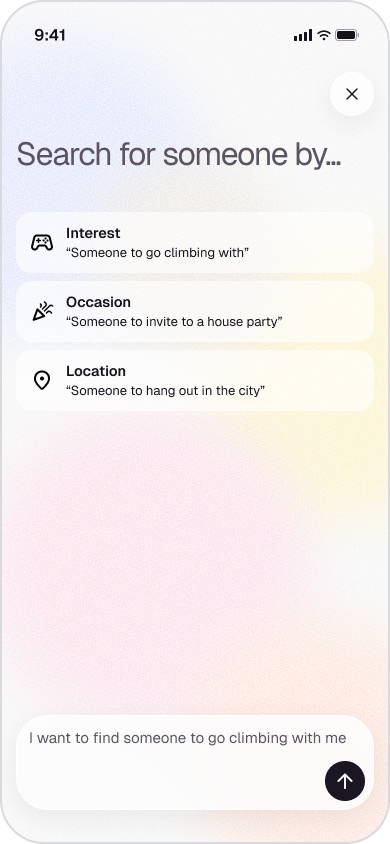
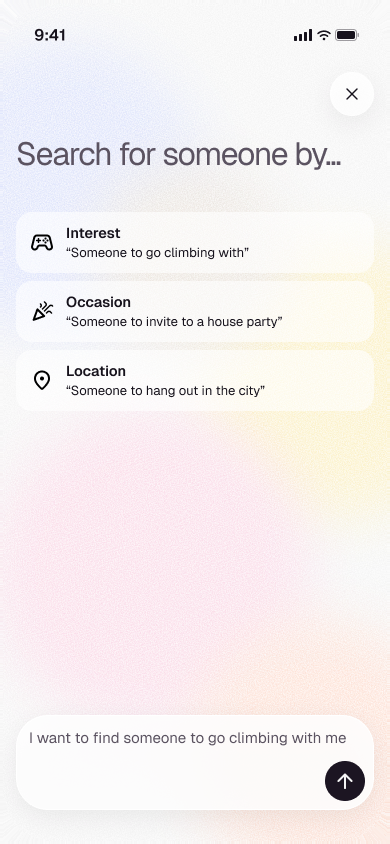
hook-150: find typed on the phone's own (light) screen, pulling back to the phone on the night background; shorter beat after the new profile

Changed region(s): [[0.0308, 0.0308, 1.0, 1.0], [0.0, 0.0308, 0.0308, 0.9858]]

diff --git a/hook-150/find.html b/hook-150/find.html
@@ -41,7 +41,8 @@
       0 46px 90px -16px rgba(8, 4, 14, 0.42), 0 14px 30px -10px rgba(8, 4, 14, 0.25); }
   #device i { position: absolute; inset: 4.7px; border-radius: 66px; background: #07060a; box-shadow: inset 0 0 0 0.6px rgba(255, 255, 255, 0.08); }
   .btn { position: absolute; width: 5px; border-radius: 2px; background: linear-gradient(90deg, #1d1e21, #5a5b60 55%, #2a2b2f); }
-  #screen { position: absolute; left: 0; top: 0; width: 393px; height: 852px; border-radius: 55px; overflow: hidden; }
+  #screen { position: absolute; left: 0; top: 0; width: 393px; height: 852px; border-radius: 55px; overflow: hidden;
+    background: linear-gradient(90deg, #f9f9f9, #fae8e0); }   /* the screen image's own corners are transparent: its colours behind them */
   #glare { position: absolute; inset: 0; border-radius: 55px;
     background: linear-gradient(118deg, rgba(255, 255, 255, 0.14) 0%, rgba(255, 255, 255, 0.04) 28%, rgba(255, 255, 255, 0) 42%); }
   #island { position: absolute; left: 133.5px; top: 11px; width: 126px; height: 37px; border-radius: 19px; background: #000; }
@@ -81,9 +82,6 @@
 <body>
 <div id="c">
   <img class="flat" src="assets/find/dark.png" alt="">
-  <div id="bigbox"><div id="bigsend"><img src="assets/find/send.svg" alt=""></div></div>
-  <div id="text"></div>
-  <p id="query"></p>
   <div id="cam">
     <div class="btn" style="left:-19.2px;top:123.5px;height:27.3px"></div>
     <div class="btn" style="left:-19.2px;top:183.2px;height:56.2px"></div>
@@ -102,6 +100,9 @@
       <div id="glare"></div>
     </div>
   </div>
+  <div id="bigbox"><div id="bigsend"><img src="assets/find/send.svg" alt=""></div></div>
+  <div id="text"></div>
+  <p id="query"></p>
   <svg id="leader" width="1920" height="1080"><line id="lline" stroke="#c6f04a" stroke-width="3" stroke-linecap="round"/>
     <circle id="ldot" r="8" fill="#c6f04a" stroke="rgba(22,18,28,0.55)" stroke-width="2"/></svg>
   <div id="callout"><b>WHY JORDAN</b><p>Climbs Tuesdays and wants a climbing buddy.</p></div>
@@ -123,8 +124,8 @@ const towards = (a, b, x) => a * (b / a) ** x;
 //    me", the line staying centered (452:10657)
 // 3. The camera pulls back: the box shows whole, the query settles into it, the send button comes in (452:10683)
 // 4. It pulls back again to the phone, "Search for someone by..." around the box (452:10693)
-//    The phone's screen grows out from around the search bar (no see-through phone), and the background turns to the
-//    main film's night background, as in its last scene
+//    It was the phone's screen all along (the light background); pulling back shows the phone on the main film's night
+//    background, as in its last scene
 // 5. As in the main film: a tap on send, the recorded results come in (the query moves up, "Reading your notes...",
 //    Jordan Lee and Zara Ahmed), and the "Why Jordan" note points at Jordan's card
 // 6. The note slides away, the phone drops away fast, and the night background is left for the main film's last scene
@@ -154,15 +155,20 @@ const LINES = [{
 const { lines, measure, paint } = makeLines(document.getElementById('text'), LINES, { shadow: false });
 
 // ---- Geometry ----
-// The box in the Figma frames (px in the frame): filling it at 200px, a band at 100px, whole at 4.55x
-const BOX1 = { cx: 886.5, top: -68, w: 2327, h: 1173, r: 208, b: 6.5 };
-const BOX2 = { cx: 959.5, top: 392, w: 2327, h: 609, r: 208, b: 6.5 };
-const BOX3 = { cx: 146 + 1628.9 / 2, top: 446, w: 1628.9, h: 95.5 * 4.55, r: 32 * 4.55, b: 4.55 };
+// It all happens on the phone's screen: the camera starts close enough that the screen (its light background) fills the
+// frame, and stays there while the query is typed; pulling back shows the phone, the night background around it.
 // The phone: content in the Figma frame's px (390 x 844, 2px border cropped), shown at s = 393 / 386
 const S = 393 / 386;
 const PBOX = { x: 16, y: 715 };                               // the search bar's top-left in the phone frame
-const K0 = 4.55 / S;                                          // the phone at which its search bar is BOX3
+const K0 = (1920 / 393) * 1.006;                              // the screen just fills the frame's width (the bar: ~1790px)
 const T1 = { x: 763.5, y: 114 };
+// The box in the Figma frames (px in the frame): filling it at 200px, a band at 100px, then whole: the phone's search
+// bar at K0, centered on Figma 452:10683's box (it's a little bigger than the Figma's 4.55x, so the screen fills the frame)
+const BOX1 = { cx: 886.5, top: -68, w: 2327, h: 1173, r: 208, b: 6.5 };
+const BOX2 = { cx: 959.5, top: 392, w: 2327, h: 609, r: 208, b: 6.5 };
+const BK = S * K0;                                            // phone px -> frame px at K0
+// (its top at 462 so the screen also reaches the bottom of the frame: the screen ends 126px of the phone below the bar)
+const BOX3 = { cx: 960, top: 462, w: 358 * BK, h: 95.5 * BK, r: 32 * BK, b: BK };
 const camAt = (K, anchorScreen) => ({ x: anchorScreen.x - (PBOX.x - 2) * S * K, y: anchorScreen.y - (PBOX.y - 2) * S * K });
 const SENDC = { x: 16 + 358 - 9 - 20, y: 715 + 95.5 - 9 - 20 }; // the send button's center (phone frame px)
 
@@ -171,6 +177,7 @@ const $ = (id) => document.getElementById(id);
 const bigbox = $('bigbox'), bigsend = $('bigsend'), query = $('query'), cam = $('cam'), content = $('content');
 const seq = $('seq'), sctx = seq.getContext('2d'), sb = $('sb'), callout = $('callout'), lline = $('lline'), ldot = $('ldot');
 const thumb = $('thumb'), r1 = $('r1'), r2 = $('r2'), send = $('send');
+const screenEl = $('screen'), glareEl = $('glare'), deviceEl = $('device'), deviceIn = deviceEl.querySelector('i');
 // The query's copy for settling into the box: each letter with its typing time (as the typed line), a caret after them
 const QCH = LINES[0].parts.flatMap((p) => [...p.text].map((ch, i) => ({ ch, at: p.start + i * p.every })));
 const qspans = QCH.map(({ ch }) => { const sp = document.createElement('span'); sp.textContent = ch; query.appendChild(sp); return sp; });
@@ -189,8 +196,8 @@ window.seek = (t) => {
   const bw = mix('w'), bh = mix('h');
   Object.assign(bigbox.style, { left: `${mix('cx') - bw / 2}px`, top: `${mix('top')}px`, width: `${bw}px`, height: `${bh}px`,
     borderRadius: `${mix('r')}px`, borderWidth: `${mix('b')}px`,
-    boxShadow: `0 ${(8 * 4.55 * (0.5 + 0.5 * st)).toFixed(1)}px ${(32 * 4.55).toFixed(1)}px rgba(22, 18, 28, 0.07)` });
-  const sendS = 40 * 4.55, inset = 9 * 4.55 - mix('b');   // the phone's send button: 8px in from the inside of its 1px border
+    boxShadow: `0 ${(8 * BK * (0.5 + 0.5 * st)).toFixed(1)}px ${(32 * BK).toFixed(1)}px rgba(22, 18, 28, 0.07)` });
+  const sendS = 40 * BK, inset = 9 * BK - mix('b');   // the phone's send button: 8px in from the inside of its 1px border
   Object.assign(bigsend.style, { width: `${sendS}px`, height: `${sendS}px`, right: `${inset}px`, bottom: `${inset}px`,
     opacity: smooth(clamp((st - 0.35) / 0.5)).toFixed(3), transform: `scale(${(0.8 + 0.2 * smooth(clamp((st - 0.35) / 0.6))).toFixed(3)})` });
 
@@ -205,16 +212,15 @@ window.seek = (t) => {
     query.insertBefore(qcaret, qspans[n] || null);
     qcaret.style.opacity = t < QCH[QCH.length - 1].at + 0.2 ? '1' : '0';
     query.style.letterSpacing = `${lerp(-4, 0, st).toFixed(3)}px`;
-    const k = lerp(1, 0.6825, st);
-    const x0 = L.spans[0].getBoundingClientRect().left, x1 = 146 + 13 * 4.55;   // where the (hidden) typed line is now
-    const y0 = 540, y1 = 446 + (12 + 1 + 9.75) * 4.55;
+    const k = lerp(1, (15 * BK) / 100, st);
+    const x0 = L.spans[0].getBoundingClientRect().left, x1 = BOX3.cx - BOX3.w / 2 + 13 * BK;   // where the (hidden) typed line is now
+    const y0 = 540, y1 = BOX3.top + (12 + 1 + 9.75) * BK;
     query.style.transform = `translate(${lerp(x0, x1, st).toFixed(2)}px, ${(lerp(y0, y1, st) - 50).toFixed(2)}px) scale(${k.toFixed(5)})`;
   }
   // Once it's whole, the phone takes over (its search bar is exactly where the box is)
   const onPhone = t >= SETTLE[0] + SETTLE[1];
-  bigbox.style.display = onPhone ? 'none' : '';
+  bigbox.style.display = onPhone ? 'none' : '';   // (the phone is under it all along, its screen the light background)
   if (onPhone) query.style.display = 'none';
-  cam.style.display = onPhone ? '' : 'none';
 
   // The camera pulls back to the phone; its screen comes up around the search bar
   const e = smoother(clamp((t - PULL[0]) / PULL[1]));
@@ -225,11 +231,14 @@ window.seek = (t) => {
   const lv = clamp((t - LEAVE - 0.1) / 0.22);
   cam.style.transform = `translate(${camT.x.toFixed(3)}px, ${(camT.y + 420 * lv * lv).toFixed(3)}px) scale(${K.toFixed(5)})`;
   cam.style.opacity = (1 - smooth(lv)).toFixed(3);
+  // This close, the screen's rounded corners (270px at K0) would cut into the frame's corners: they're square until it
+  // pulls back, then round to the phone's 55px early in the pull
+  const rr = 55 * smoother(clamp(e / 0.3));
+  screenEl.style.borderRadius = glareEl.style.borderRadius = `${rr.toFixed(2)}px`;
+  deviceEl.style.borderRadius = `${(rr + 15.7).toFixed(2)}px`;
+  deviceIn.style.borderRadius = `${(rr + 11).toFixed(2)}px`;
   // The screen grows out from around the search bar to the whole phone (frame included), solid all the way: a rounded
   // clip on the phone, from the bar's edges (in the screen's px) to past the frame
-  const rv = smoother(clamp(e / 0.55));
-  const ins = [lerp(725.9, -26, rv), lerp(14.3, -26, rv), lerp(28.8, -26, rv), lerp(14.25, -26, rv)];
-  cam.style.clipPath = rv >= 1 ? '' : `inset(${ins.map((v) => v.toFixed(2) + 'px').join(' ')} round ${lerp(32.6, 80, rv).toFixed(2)}px)`;
 
 
   // Tap send: the thumb glides in and presses; the recorded results crossfade in (as in the main film)

diff --git a/hook-150/create.html b/hook-150/create.html
@@ -175,7 +175,7 @@ const NOTE_IN = SENT + 0.2, MAKING_IN = SENT + 0.6;
 const SKEL = SENT + 1.25, MADE = SKEL + 1.35;
 // The phone leaves first, sliding up quickly as it fades; the cut's 0.8s background crossfade into Vince's film starts
 // 0.15s later, so the phone is gone before the backgrounds have changed much
-const LEAVE = [MADE + 2.0, 0.22];
+const LEAVE = [MADE + 1.1, 0.22];   // a short beat on the new card, then on (user's call: the pause was too long)
 const DURATION = LEAVE[0] + 0.15 + 0.8;
 
 const smoother = (x) => x * x * x * (x * (6 * x - 15) + 10);
